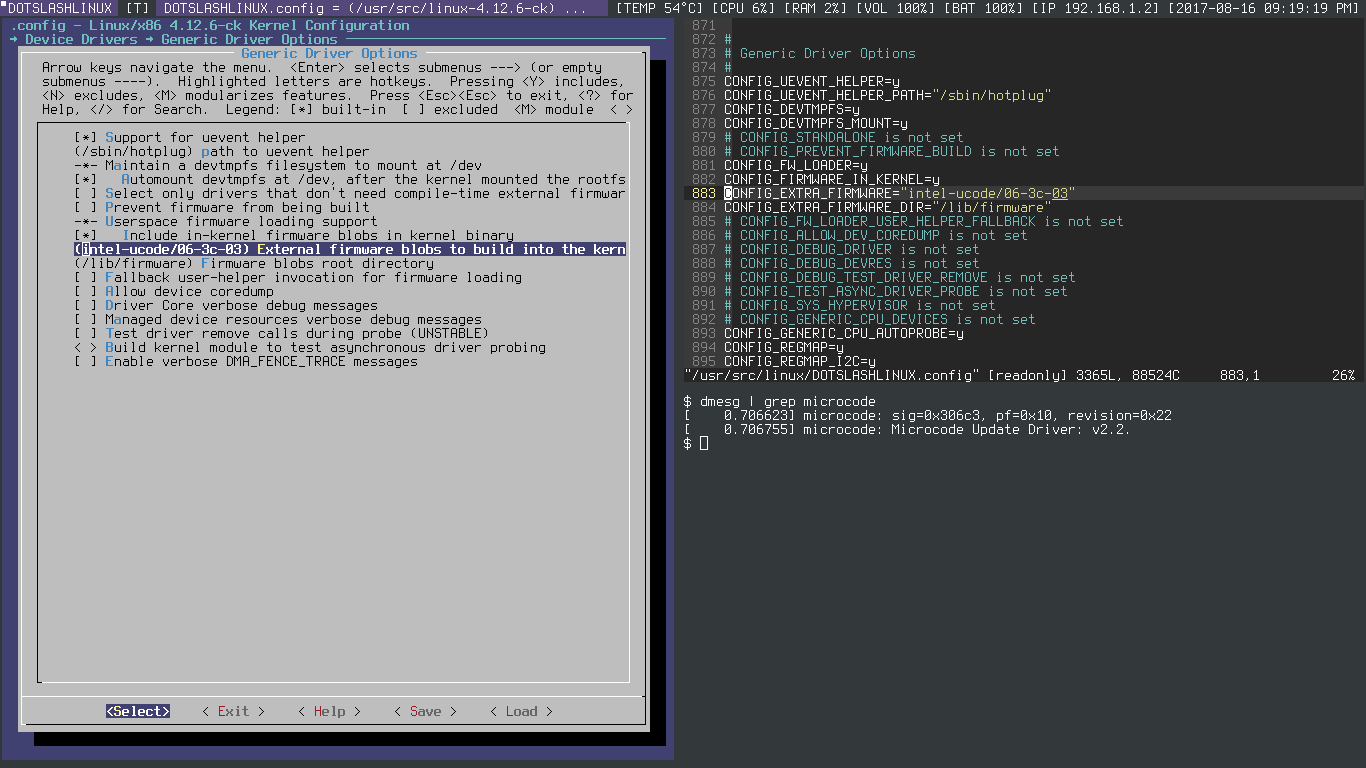
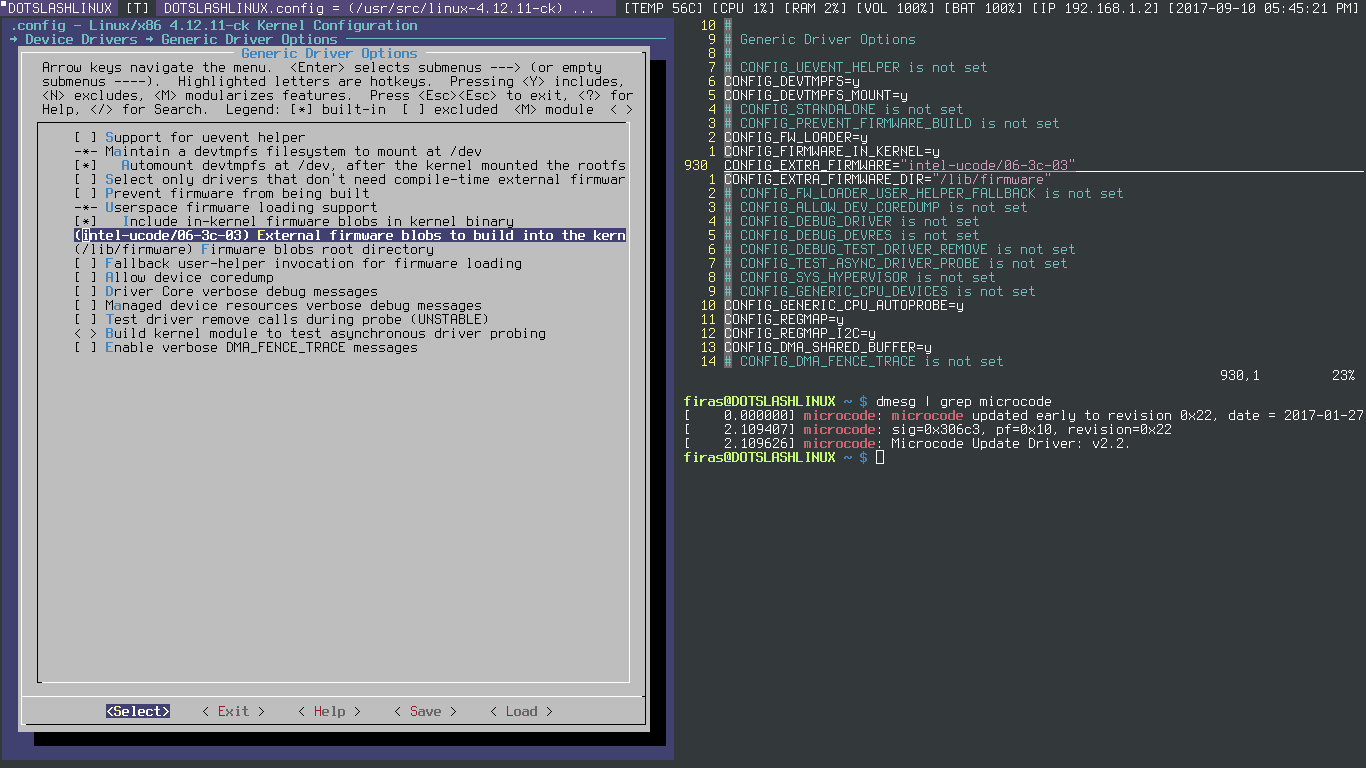
Minor Changes

diff --git a/content/post/2017-09-11-The-Linux-Kernel-Configuration-Guide-Part-11.md b/content/post/2017-09-11-The-Linux-Kernel-Configuration-Guide-Part-11.md
@@ -123,5 +123,98 @@ One last thing, starting from this part, I'll only be listing the options that a
 <h3>Generic Driver Options  ---></h3>
 <h3>-&ast;- Maintain a devtmpfs filesystem to mount at /dev</h3>
 ```none
-Symbol:     
+Symbol:     CONFIG_DEVTMPFS
+
+Help:       This creates a tmpfs/ramfs filesystem instance early at bootup.
+            In this filesystem, the kernel driver core maintains device
+            nodes with their default names and permissions for all
+            registered devices with an assigned major/minor number.
+            Userspace can modify the filesystem content as needed, add
+            symlinks, and apply needed permissions.
+            It provides a fully functional /dev directory, where usually
+            udev runs on top, managing permissions and adding meaningful
+            symlinks.
+            In very limited environments, it may provide a sufficient
+            functional /dev without any further help. It also allows simple
+            rescue systems, and reliably handles dynamic major/minor numbers.
+
+            Notice: if CONFIG_TMPFS isn't enabled, the simpler ramfs
+            file system will be used instead.
+
+Type:       boolean
+
+Choice:     built-in -*-
+
+Reason:     It's highly recommended that you include this option in your kernel
+            (that is if it wasn't already forcibly included by CONFIG_GENTOO_LINUX
+            and CONFIG_GENTOO_LINUX_UDEV).
+```
+<h3>[&ast;]   Automount devtmpfs at /dev, after the kernel mounted the rootfs</h3>
+```none
+Symbol:     CONFIG_DEVTMPFS_MOUNT
+
+Help:       This will instruct the kernel to automatically mount the
+            devtmpfs filesystem at /dev, directly after the kernel has
+            mounted the root filesystem. The behavior can be overridden
+            with the commandline parameter: devtmpfs.mount=0|1.
+            This option does not affect initramfs based booting, here
+            the devtmpfs filesystem always needs to be mounted manually
+            after the rootfs is mounted.
+            With this option enabled, it allows to bring up a system in
+            rescue mode with init=/bin/sh, even when the /dev directory
+            on the rootfs is completely empty.
+
+Type:       boolean
+
+Choice:     built-in [*]
+
+Reason:     It's recommended that you include this option in your kernel as it's
+            useful when attempting a system rescue.
+```
+<h3>-&ast;- Userspace firmware loading support</h3>
+```none
+Symbol:     CONFIG_FW_LOADER
+
+Help:       This option is provided for the case where none of the in-tree modules
+            require userspace firmware loading support, but a module built
+            out-of-tree does.
+
+Type:       tristate
+
+Choice:     built-in -*-
+
+Reason:     It's highly recommended that you include this option as well if you want
+            to load modules (the list of options and drivers that require this option
+            is endless so it's a good idea to include it).
+```
+<h3>[&ast;]   Include in-kernel firmware blobs in kernel binary</h3>
+```none
+Symbol:     CONFIG_FIRMARE_IN_KERNEL
+
+Help:       The kernel source tree includes a number of firmware 'blobs'
+            that are used by various drivers. The recommended way to
+            use these is to run "make firmware_install", which, after
+            converting ihex files to binary, copies all of the needed
+            binary files in firmware/ to /lib/firmware/ on your system so
+            that they can be loaded by userspace helpers on request.
+
+            Enabling this option will build each required firmware blob
+            into the kernel directly, where request_firmware() will find
+            them without having to call out to userspace. This may be
+            useful if your root file system requires a device that uses
+            such firmware and do not wish to use an initrd.
+
+            This single option controls the inclusion of firmware for
+            every driver that uses request_firmware() and ships its
+            firmware in the kernel source tree, which avoids a
+            proliferation of 'Include firmware for xxx device' options.
+
+            Say 'N' and let firmware be loaded from userspace.
+
+Type:       boolean
+
+Choice:     built-in [*]
+
+Reason:     It's recommended that you include this option in your kernel as it's
+            required for building microcode updates directly into the linux kernel.
 ```

diff --git a/content/post/2017-04-30-Building-Intel-CPU-Microcode-Updates-Directly-into-the-Linux-Kernel.md b/content/post/2017-04-30-Building-Intel-CPU-Microcode-Updates-Directly-into-the-Linux-Kernel.md
@@ -250,7 +250,7 @@ make menuconfig
 Navigate to <mark>Device Drivers</mark> then to <mark>Generic Driver Options</mark>.
 <br/>
 <br/>
-Now change the values of <mark>CONFIG_EXTRA_FIRMWARE</mark> and <mark>CONFIG_EXTRA_FIRMWARE_DIR</mark> similarly to the ones shown below:
+Now include <mark>CONFIG_FIRMWARE_IN_KERNEL</mark>,<mark>CONFIG_EXTRA_FIRMWARE</mark> and <mark>CONFIG_EXTRA_FIRMWARE_DIR</mark> similarly to the ones shown below:
 ```none
   [ ] Support for uevent helper
   -*- Maintain a devtmpfs filesystem to mount at /dev
@@ -258,7 +258,7 @@ Now change the values of <mark>CONFIG_EXTRA_FIRMWARE</mark> and <mark>CONFIG_EXT
   [ ] Select only drivers that don't need compile-time external firmware
   [ ] Prevent firmware from being built
   -*- Userspace firmware loading support
-  [ ]   Include in-kernel firmware blobs in kernel binary
+  [*]   Include in-kernel firmware blobs in kernel binary
   (intel-ucode/06-3c-03) External firmware blobs to build into the kernel binary
   (/lib/firmware) Firmware blobs root directory
   [ ] Fallback user-helper invocation for firmware loading
